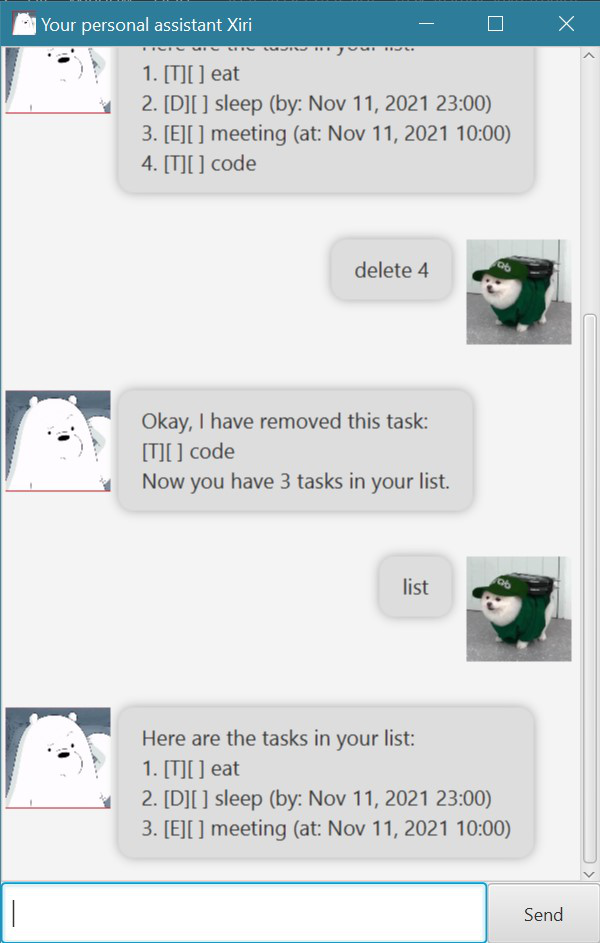
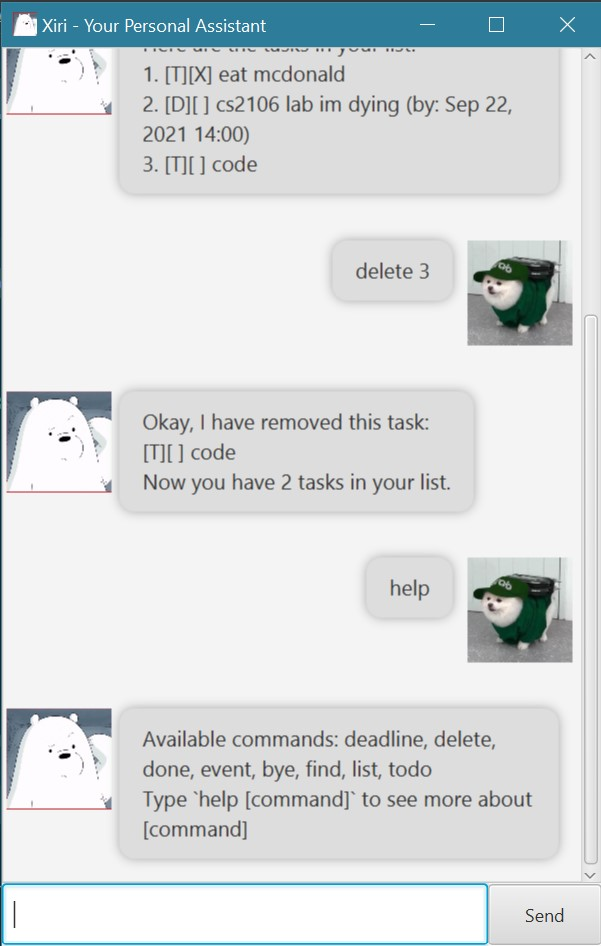
fix problems with jar file

diff --git a/src/main/java/duke/ui/Main.java b/src/main/java/duke/ui/Main.java
@@ -22,7 +22,7 @@ public class Main extends Application {
             Scene scene = new Scene(ap);
             stage.setScene(scene);
             fxmlLoader.<MainWindow>getController().setDuke(duke);
-            stage.setTitle("Your personal assistant Xiri");
+            stage.setTitle("Xiri - Your Personal Assistant");
             stage.getIcons().add(new Image(this.getClass().getResourceAsStream("/images/bot.jpg")));
             stage.show();
         } catch (IOException e) {
